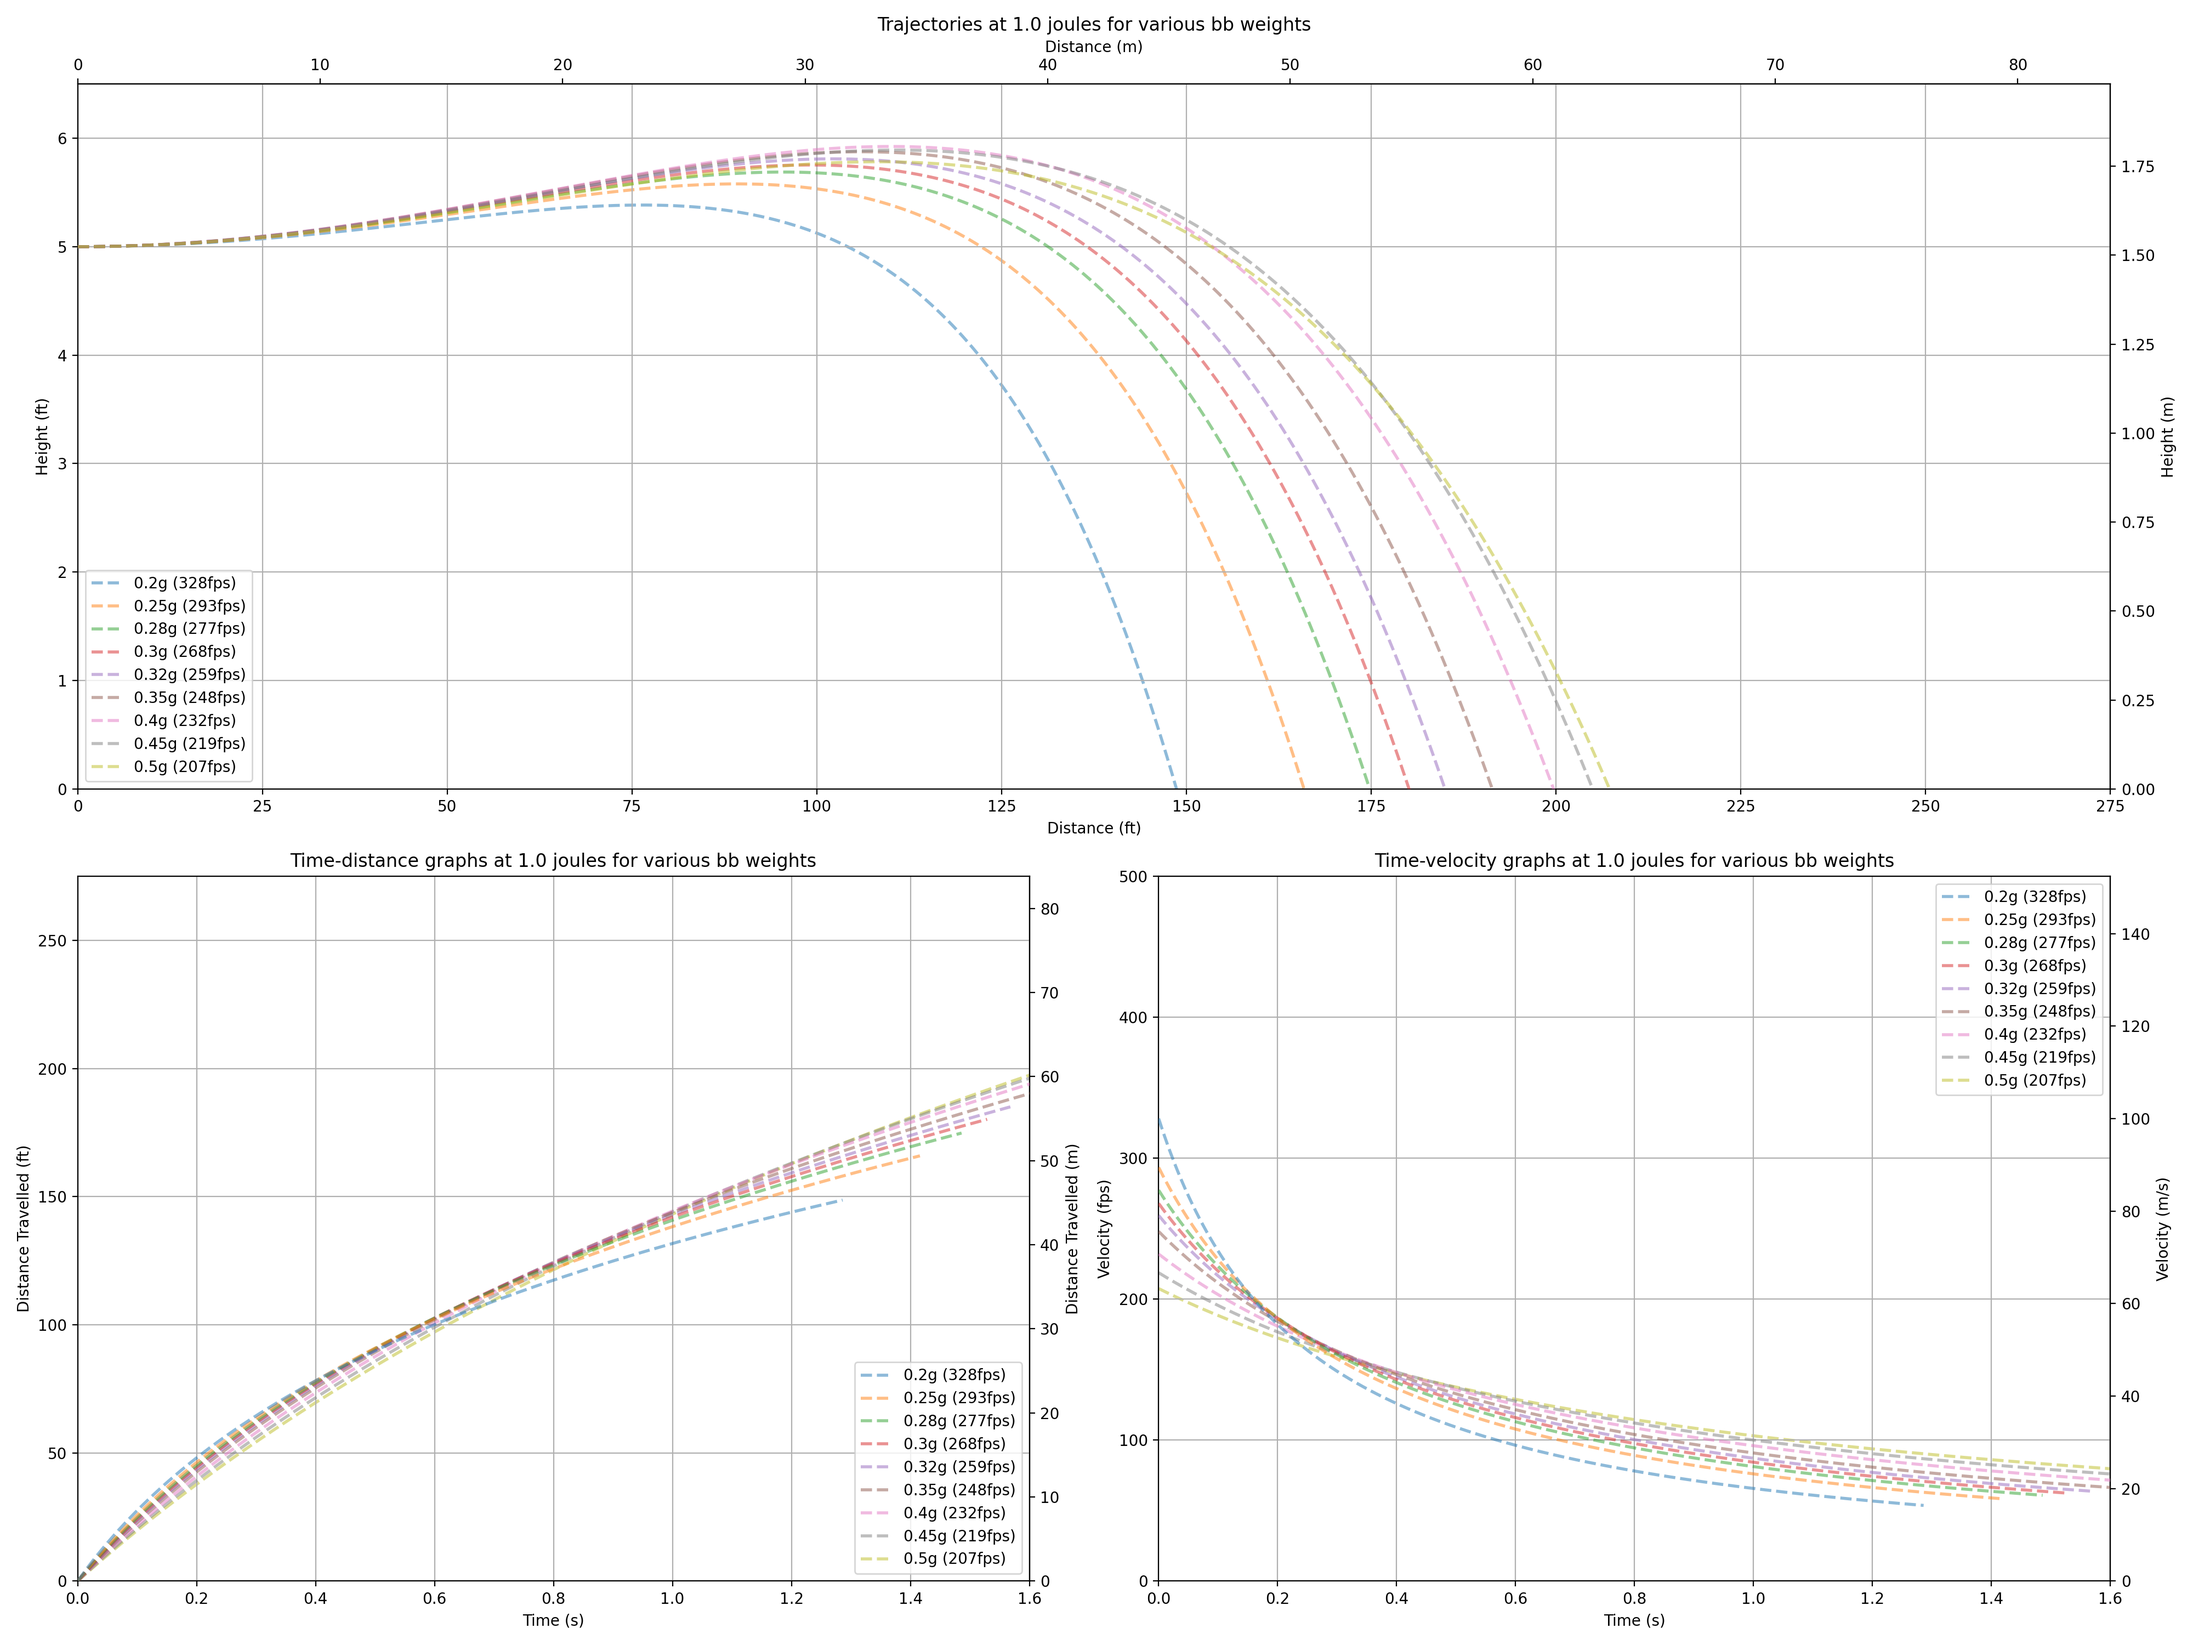
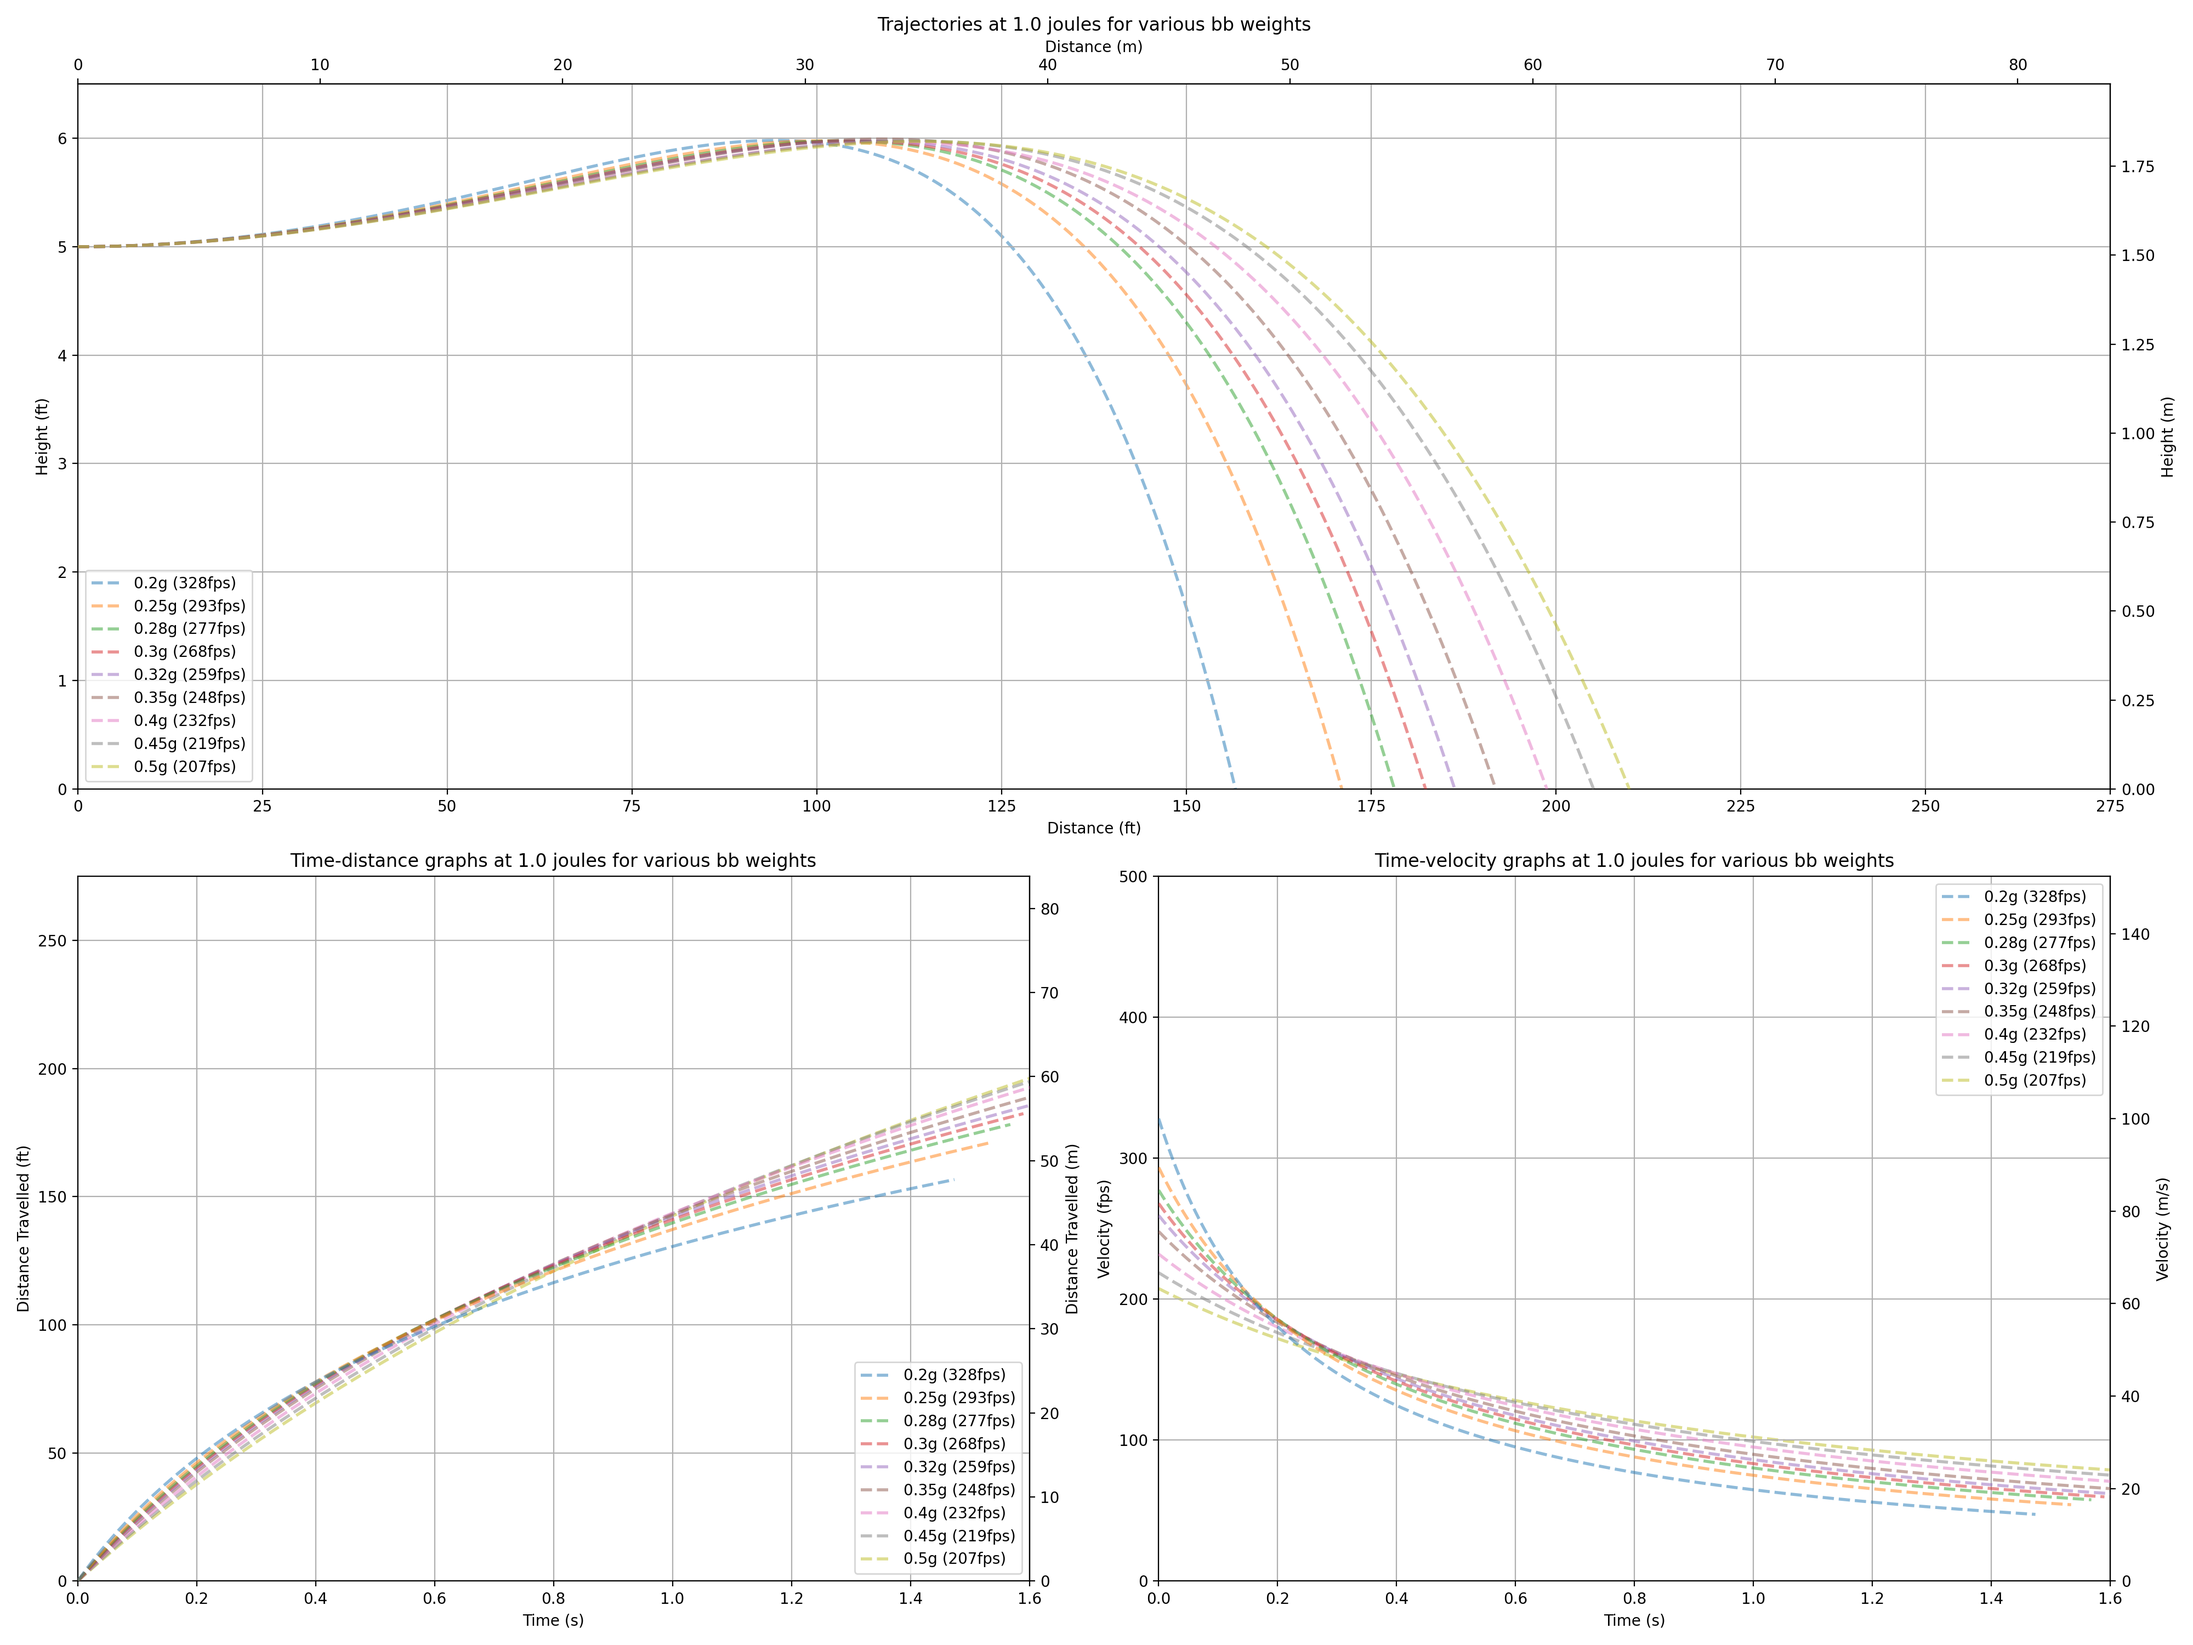
Find perfect hop automatically

diff --git a/main.py b/main.py
@@ -2,12 +2,12 @@ from math import pi, sqrt, atan2, cos, sin, radians
 import matplotlib.pyplot as plt
 from matplotlib import ticker
 import os
-from concurrent.futures import ProcessPoolExecutor
+import concurrent.futures
 
 RAD = 1.571
 AIR_DENSITY = 1.225
 AIR_DYNAMIC_VISCOSITY = 1.81e-5
-BB_DIAMETER = 5.95e-3
+BB_DIAMETER = 6e-3
 BB_RADIUS = BB_DIAMETER/2
 SPHERE_DRAG_COEF = 0.47
 SPHERE_FRONTAL_AREA = pi*BB_RADIUS**2
@@ -32,8 +32,7 @@ class BB_Class:
         self.mass = mass
         self.initial_energy = energy
         self.velocity = BB_Class.get_intial_velocity(mass, energy)
-        self.angular_velocity = BB_Class.get_initial_hop_angular_velocity(
-            self.velocity[0], mass, energy)
+        self.angular_velocity = BB_Class.get_initial_hop_angular_velocity(self.velocity[0], mass)
         self.position = INITIAL_POSITION.copy()
         self.moment_of_inerta = (2/5)*mass*BB_RADIUS**2
         # self.ballistic_coefficient = mass/(SPHERE_DRAG_COEF + SPHERE_FRONTAL_AREA)
@@ -50,16 +49,6 @@ class BB_Class:
         return 2*pi*BB_RADIUS**2*self.angular_velocity
 
     @classmethod
-    def magnus_spin_mod(cls, mass, energy) -> float:
-        # Arbitrary values to get a decent magnus effect benefit
-        base = 1
-        energy_mod =    remap(energy,   min(ENERGIES),  max(ENERGIES),  1.0, 1.1)
-        mass_mod =      remap(mass,     min(MASSES),    max(MASSES),    1.8, 1.4)
-        mod = base * energy_mod * mass_mod
-        return mod
-
-
-    @classmethod
     def get_intial_velocity(cls, mass: float, energy: float) -> list:
         angle = radians(0)
         velocity = sqrt(energy/(0.5*mass))
@@ -69,15 +58,13 @@ class BB_Class:
         return [velocity_x, velocity_y]
 
     @classmethod
-    def get_initial_hop_angular_velocity(cls, component_velocity: float, mass: float, energy: float) -> float:
+    def get_initial_hop_angular_velocity(cls, component_velocity: float, mass: float) -> float:
         # Gets initial hop spin for straight flight
         # Gets hop spin according to magnus effect https://www.fxsolver.com/browse/formulas/Magnus+effect
-        # Seems to decently capitalise on magnus effect
-        magnus_mod = BB_Class.magnus_spin_mod(mass, energy)
         F = mass * GRAVITY
         G = F/(BB_DIAMETER * AIR_DENSITY * component_velocity)
         angular_velocity = G/(2*pi*BB_RADIUS**2)
-        return angular_velocity * magnus_mod
+        return angular_velocity
 
     def update_angular_velocity(self):
         # https://physics.stackexchange.com/questions/304742/angular-drag-on-body
@@ -250,6 +237,26 @@ def plot_time_velocity(fig, series, title, subject):
     secyax.set_ylabel("Velocity (m/s)")
     ax.legend(loc='upper right')
 
+# finds correct hop for 1ft of rise over flight time.
+def run_bb_optimally(pair):
+    mass, energy = pair
+    best_result = BB_Class(mass, energy).run_sim()
+    step = 0.01
+    i = 1 + step
+    while True:
+        bb = BB_Class(mass, energy)
+        bb.angular_velocity *= i
+        result = bb.run_sim()
+        points = result['points']
+        max_y = max([point[1][1]*FEET_PER_METRE for point in points])
+        if max_y < 6:
+            best_result = result
+            i += step
+        else:
+            break
+    print(f'Done {mass}, {energy}')
+    return best_result
+
 
 def main():
     for directory in (
@@ -259,20 +266,19 @@ def main():
         if not os.path.isdir(directory):
             os.makedirs(directory)
     results = []
-
+    pairs = []
     for energy in ENERGIES:
         for mass in MASSES:
-            result = BB_Class(mass, energy).run_sim()
-            results.append(result)
-            # print(result["summary"])
-    with ProcessPoolExecutor() as pe:
+            pairs.append((mass, energy))
+    with concurrent.futures.ProcessPoolExecutor() as pe:
+        # result_futures = pe.map(run_bb_optimally, pairs)
+        # list(concurrent.futures.as_completed(result_futures))
+        results = list(map(run_bb_optimally, pairs))
         for energy in ENERGIES:
             series = [result for result in results if result["energy"] == energy]
-            #plot_graphs(series, energy, results, "J")
             pe.submit(plot_graphs, series, energy, "J")
         for mass in MASSES:
             series = [result for result in results if result["mass"] == mass]
-            #plot_graphs(series, mass, results, "M")
             pe.submit(plot_graphs, series, mass, "M")
 
 
